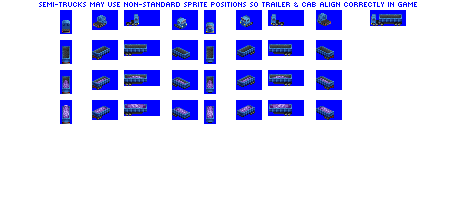
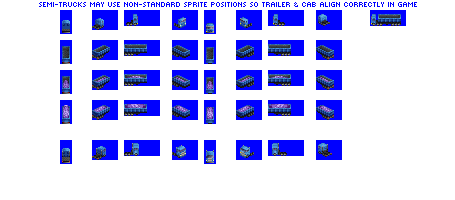
Change: improved Wookey dump truck; also tweaked Powerstock dump truck

diff --git a/src/global_constants.py b/src/global_constants.py
@@ -111,15 +111,13 @@ max_game_date = 5000001
 
 # standard offsets for vehicle
 # for 5/8 and 4/8, Capo truck in rev 732 is tested and canonical for offset, spritesheet position and vehicle length
-default_road_vehicle_offsets = {'1': [[-3, -12], [-14, -14], [-16, -11], [-8, -15], [-3, -12], [-14, -14], [-16, -11], [-8, -15]], # needs fix
+default_road_vehicle_offsets = {'1': [[-6, -23], [0, -17], [12, -10], [6, -11], [-6, -12], [-14, -10], [-14, -10], [-8, -16]], # may need fix
                                 '2': [[-6, -23], [-2, -16], [8, -10], [4, -11], [-6, -12], [-14, -10], [-16, -10], [-8, -14]],
                                 '3': [[-6, -22], [-4, -17], [2, -10], [2, -11], [-6, -15], [-14, -10], [-16, -10], [-8, -16]],
                                 '4': [[-6, -20], [-6, -14], [0, -10], [0, -11], [-6, -12], [-14, -10], [-14, -10], [-8, -14]],
                                 '5': [[-6, -17], [-8, -13], [-6, -10], [-2, -11], [-6, -12], [-14, -10], [-14, -10], [-8, -13]],
                                 '6': [[-6, -16], [-10, -12], [-8, -10], [-4, -11], [-6, -15], [-14, -10], [-14, -10], [-8, -13]],
                                 '7': [[-6, -15], [-12, -12], [-14, -10], [-6, -11], [-6, -15], [-14, -10], [-14, -10], [-8, -11]],
-                                '8': [[-6, -13], [-14, -11], [-16, -10], [-8, -11], [-6, -13], [-14, -11], [-16, -10], [-8, -11]],
-                                '9': [[-3, -12], [-14, -14], [-16, -11], [-8, -15], [-3, -12], [-14, -14], [-16, -11], [-8, -15]], # needs fix
-                                '10': [[-3, -12], [-14, -14], [-16, -11], [-8, -15], [-3, -12], [-14, -14], [-16, -11], [-8, -15]]} # needs fix
+                                '8': [[-6, -13], [-14, -11], [-16, -10], [-8, -11], [-6, -13], [-14, -11], [-16, -10], [-8, -11]]}
 
 semi_truck_offset_jank = [[0, 1], [-2, 1], [-4, 0], [-2, 1], [0, 0], [-2, 1], [-1, 0], [-1, 1]]
